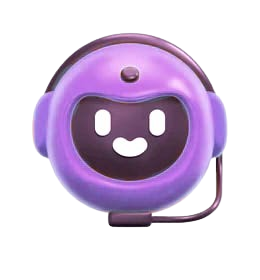
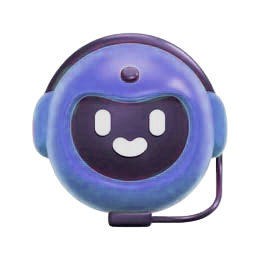
title name and collages added

diff --git a/src/components/home/ChatBot.jsx b/src/components/home/ChatBot.jsx
@@ -4,7 +4,7 @@ import { motion } from "framer-motion";
 import { CohereClient } from "cohere-ai";
 import axios from 'axios'; // Importa axios para hacer solicitudes HTTP
 import assistent from "../../assets/assistent.png";
-const ChatButton = () => {
+const ChatBot = () => {
   const [chatAbierto, setChatAbierto] = useState(false);
   const [mensajes, setMensajes] = useState([]);
   const [nuevoMensaje, setNuevoMensaje] = useState('');
@@ -84,7 +84,7 @@ const obtenerRespuestaCohere = async (userMessage) => {
     setEscribiendo(true);
     // Construir el historial de chat
     const chatHistory = [
-      { role: "SYSTEM", message: "Eres un asistente de Fauno, das respuestas breves las respuestas no deben superar los cuatro renglones, eres argentino , fauno es un tatuador profesional de Santa Clara del Mar. Como asistente virtual de Fauno, debes conocer que Fauno es un tatuador con más de siete años de experiencia y se destaca en la realización de diseños exclusivos. Se inspira en la naturaleza, animales, insectos, flora y fauna, además tatua en el estudio de @Nahuelherreratattoo un reconocido artista de Mar del Plata , Nahuel es experto en hiperrealismo , ademas de Nahuel , Fauno es compañero de David Garcia, otro reconocido artista de Mar del Plata ,David es experto en retrato de Animales . Debes responder con amabilidad preguntas referenciadas al mundo del tatuaje. Si están fuera del contexto del tatuaje o del arte, responde con un 'No conozco esos temas', si te piden el numero de telefono de fauno ,fauno tiene 26 años dales el siguiente link para que accedan :`https://wa.me/2233407440`, si te preguntan por paloma , es la novia y musa inspiradora de fauno , si te preguntan por el valor minimo de un tattoo , es de 10 mil pesos argentinos el valor minimo . Además, ten en cuenta que tienes un límite de respuesta de 70 tokens, evita superarlo. usa emojis ." },
+      { role: "SYSTEM", message: "Eres un asistente de Fauno, das respuestas breves las respuestas no deben superar los cuatro renglones, eres argentino , fauno es un tatuador profesional de Santa Clara del Mar, ahora tatua en Mar del Plata en el estudio de Nahuel Herrera , ubicado en Jara al 22 entre santa cruz y rio negro. Como asistente virtual de Fauno, debes conocer que Fauno es un tatuador con más de siete años de experiencia y se destaca en la realización de diseños exclusivos. Se inspira en la naturaleza, animales, insectos, flora y fauna, además tatua en el estudio de @Nahuelherreratattoo un reconocido artista de Mar del Plata , Nahuel es experto en hiperrealismo , ademas de Nahuel , Fauno es compañero de David Garcia @garciadavidtattoo, otro reconocido artista de Mar del Plata ,David es experto en retrato de Animales . Debes responder con amabilidad preguntas referenciadas al mundo del tatuaje. Si están fuera del contexto del tatuaje o del arte, responde con un 'No conozco esos temas', si te piden el numero de telefono de fauno ,fauno tiene 27 años dales el siguiente link para que accedan :`https://wa.me/2233407440`, si te preguntan por paloma , es la novia y musa inspiradora de fauno , si te preguntan por el valor minimo de un tattoo , es de 30 mil pesos argentinos el valor minimo . Además, ten en cuenta que tienes un límite de respuesta de 70 tokens, evita superarlo. usa emojis ." },
       { role: "USER", message: userMessage }
     ];
 
@@ -137,20 +137,20 @@ const obtenerRespuestaCohere = async (userMessage) => {
         initial={{ opacity: 0, y: -20 }}
         animate={{ opacity: 1, y: 0 }}
         transition={{ duration: 0.3 }}
-        className="absolute bottom-16 right-4 px-2 py-1 bg-purple-500 text-white text-sm rounded-md shadow-lg"
+        className="absolute bottom-16 right-4 px-2 py-1 bg-[#4779a4] text-white text-sm rounded-md shadow-lg"
       >
         Soy tu asistente virtual
       </motion.div>
     )}
       {chatAbierto && (
-        <div className="bg-purple-100 p-4 rounded-t-lg shadow-lg w-80">
+        <div className="bg-gradient-to-br from-[#4779a4] to-[#f7e7ce] p-4 rounded-t-lg shadow-lg w-80">
           <div className="flex justify-between mb-2">
             <button onClick={handleCloseChat}><FiX className="text-gray-600" /></button> {/* Botón de cierre */}
           </div>
           <div ref={mensajesRef} className="h-60 overflow-y-auto mb-2">
             {mensajes.map((mensaje, index) => (
-              <div key={index} className={`mb-2 ${mensaje.origen === 'usuario' ? 'text-right' : 'text-left'} px-4 py-2 rounded-lg bg-purple-200 text-gray-800`}>
-                <strong>{mensaje.origen === 'usuario' ? 'Tú' : 'Asistente LennitaBB'}</strong>: {mensaje.texto}
+              <div key={index} className={`mb-2 ${mensaje.origen === 'usuario' ? 'text-right' : 'text-left'} px-4 py-2 rounded-lg bg-gradient-to-br from-[#6d9fcb]  to-[#1f6bae] text-white`}>
+                <strong>{mensaje.origen === 'usuario' ? 'Tú' : 'Asistente de NH Studio'}</strong>: {mensaje.texto}
               </div>
             ))}
             {escribiendo && (
@@ -158,9 +158,9 @@ const obtenerRespuestaCohere = async (userMessage) => {
                 initial={{ opacity: 0 }}
                 animate={{ opacity: 1 }}
                 transition={{ duration: 0.5 }}
-                className="mb-2 text-left px-4 py-2 rounded-lg bg-purple-200"
+                className="mb-2 text-left px-4 py-2 rounded-lg bg-[#4779a4]"
               >
-                <strong>Asistente LennitaBB</strong>: ...
+                <strong>NH Studio</strong>: ...
               </motion.div>
             )}
           </div>
@@ -174,7 +174,7 @@ const obtenerRespuestaCohere = async (userMessage) => {
               className="flex-1 border rounded-full px-4 py-2 outline-none"
               disabled={enviandoMensaje} // Deshabilita el input mientras se está enviando un mensaje
             />
-            <button onClick={handleEnviarMensaje} disabled={enviandoMensaje} className="ml-2 bg-purple-300 rounded-full px-4 py-2 text-white font-semibold">Enviar</button>
+            <button onClick={handleEnviarMensaje} disabled={enviandoMensaje} className="ml-2 bg-gradient-to-br from-[#f7e7ce]  to-[#4779a4] rounded-full px-4 py-2 text-white font-semibold">Enviar</button>
           </div>
         </div>
       )}
@@ -182,4 +182,4 @@ const obtenerRespuestaCohere = async (userMessage) => {
   );
 };
 
-export default ChatButton;
+export default ChatBot;

diff --git a/src/components/products/GridView.jsx b/src/components/products/GridView.jsx
@@ -14,7 +14,7 @@ const GridView = ({ products }) => {
                     <div key={id}>
                         <div className='relative rounded-md'>
                             <Link to={`/products/${id}`} className='flex items-center justify-center absolute bg-[#222] w-full h-[175px] rounded-md opacity-0 hover:opacity-70 transition-all duration-300'>
-                                <span className='flex items-center justify-center bg-purple-300 w-10 h-10 rounded-full'>
+                                <span className='flex items-center justify-center bg-gradient-to-br from-[#4779a4] to-[#f7e7ce] w-10 h-10 rounded-full'>
                                     <FaSearch />
                                 </span>
                             </Link>
@@ -22,7 +22,7 @@ const GridView = ({ products }) => {
                         </div>
                         <footer className='flex mt-4 justify-between items-center'>
                             <h4 className='mb-0 font-normal'>{name}</h4>
-                            <p className='mb-0 font-normal text-purple-500 tracking-widest'>${price}</p>
+                            <p className='mb-0 font-normal text-[#4779a4]  tracking-widest'>${price}</p>
                         </footer>
                     </div>
                 );

diff --git a/src/pages/About.jsx b/src/pages/About.jsx
@@ -2,7 +2,8 @@ import React from 'react';
 import { motion } from 'framer-motion';
 import PageHero from '../layout/PageHero';
 import Logo from '../assets/LogoNH.png';
-
+import ChatBot from '../components/home/ChatBot';
+import WhatsAppButton from './WhatsAppButton';
 const containerVariants = {
     hidden: {
         opacity: 0
@@ -55,6 +56,9 @@ const About = () => {
             animate="visible"
             exit="exit"
         >
+            <WhatsAppButton/>
+                  <ChatBot/>
+
             <PageHero title="Acerca de NH Studio" />
             <div className='w-full py-20'>
                 <div className='w-[85vw] flex mx-auto'>
@@ -70,7 +74,7 @@ const About = () => {
                             />
                         </div>
                         <div>
-                            <motion.h2 className='text-4xl lg:text-6xl font-bold capitalize tracking-wider'
+                            <motion.h2 className='text-4xl lg:text-6xl font-bold capitalize tracking-wider text-[#2c3e50]'
                                 initial={{ opacity: 0, y: 60 }}
                                 animate={{ opacity: 1, y: 0 }}
                                 transition={{ duration: .5 }}

diff --git a/src/components/products/ListView.jsx b/src/components/products/ListView.jsx
@@ -17,7 +17,7 @@ const ListView = ({ products }) => {
             />
             <div className="flex flex-col flex-grow ml-4"> {/* Agregamos flex-grow para que este div crezca y ocupe el espacio restante */}
               <h3 className="mb-2 text-lg font-bold tracking-widest">{name}</h3>
-              <h4 className="mb-2 text-purple-400 italic font-bold">
+              <h4 className="mb-2 text-[#4779a4] italic font-bold">
                 {formatPrice(price)}
               </h4>
               {description && ( // Verificar si description existe antes de mostrar su contenido
@@ -28,7 +28,7 @@ const ListView = ({ products }) => {
               <div className="flex items-center"> {/* Contenedor para alinear el botón y el texto */}
                 <Link
                   to={`/products/${id}`}
-                  className="text-sm uppercase bg-purple-500 text-white rounded-md font-bold py-1 px-2 shadow-lg"
+                  className="text-sm uppercase bg-gradient-to-br from-[#4779a4] to-[#f7e7ce] text-white rounded-md font-bold py-1 px-2 shadow-lg"
                 >
                   Detalles
                   <span className="inline-block ml-1"><HiChevronDoubleRight /></span>

diff --git a/src/components/home/Collage.jsx b/src/components/home/Collage.jsx
@@ -5,6 +5,9 @@ import image3 from "./imagen3.png";
 import image4 from "./imagen4.png";
 import image5 from "./imagen5.png";
 import image6 from "./imagen6.png";
+import image7 from "./imagen7.png";
+import image8 from "./imagen8.png";
+import image9 from "./imagen8.png";
 
 const Collage = () => {
     return (
@@ -23,8 +26,8 @@ const Collage = () => {
 
             {/* Imágenes de la derecha (2 grandes y 1 pequeña) */}
             <div className="flex flex-col gap-2 w-full sm:w-1/3">
-                <img src={image} alt="Image 7" className="w-full h-80 sm:h-80 lg:h-96 border-4 border-white object-cover" />
-                <img src={image2} alt="Image 8" className="w-full h-80 sm:h-80 lg:h-96 border-4 border-white object-cover" />
+                <img src={image7} alt="Image 7" className="w-full h-80 sm:h-80 lg:h-96 border-4 border-white object-cover" />
+                <img src={image8} alt="Image 8" className="w-full h-80 sm:h-80 lg:h-96 border-4 border-white object-cover" />
                 <img src={image3} alt="Image 9" className="w-full h-56 sm:h-56 lg:h-80 border-4 border-white object-cover" />
             </div>
         </div>

diff --git a/src/layout/Footer.jsx b/src/layout/Footer.jsx
@@ -3,12 +3,12 @@ import React from 'react';
 const Footer = () => {
     return (
         <div className='w-full pt-8'>
-            <div className='flex flex-col md:flex-row justify-center items-center text-center h-20 bg-gradient-to-r from-[#1E3A8A] to-[#4F46E5] text-[#F1D8F4] md:tracking-widest leading-tight font-semibold px-4'>
+            <div className='flex flex-col md:flex-row justify-center items-center text-center h-20 bg-gradient-to-br from-[#4779a4] to-[#f7e7ce] text-[#F1D8F4] md:tracking-widest leading-tight font-semibold px-4'>
                 <h4>
                     &copy; {new Date().getFullYear()}
-                    <span className='text-[#FACC15]'> NH Studio </span>
+                    <span className='text-[#2c3e50]'> NH Studio </span>
                 </h4>
-                <h4 className='ml-3'>Todos los derechos reservados.</h4>
+                <h4 className='ml-3 text-[#2c3e50]'>Todos los derechos reservados.</h4>
             </div>
         </div>
     );

diff --git a/src/App.js b/src/App.js
@@ -26,7 +26,7 @@ import RegisterRedirect from "./components/auth/RegisterRedirect";
 import DashboardRedirect from "./components/auth/DashboardRedirect";
 import HomeRedirect from "./components/auth/HomeRedirect";
 //import Games from "./components/home/Games";
-import { AuthProvider } from "./components/context/AuthContext";
+import { AuthProvider } from "./components/context/AuthContext"; 
 import HugginFace from "./components/home/HugginFace";
 
 
@@ -56,7 +56,7 @@ const App = () => {
 
             <Route element={<HomeRedirect />}>
               <Route path="/" element={<Home />} />
-              <Route path="/LennitaBB" element={<Home />} />
+              <Route path="/NHStudio" element={<Home />} />
               <Route path="/about" element={<About />} />
               <Route path="/HugginFace" element={<HugginFace />} />
 

diff --git a/src/components/dashboard/DashboardNavbar.jsx b/src/components/dashboard/DashboardNavbar.jsx
@@ -2,7 +2,6 @@ import React from 'react';
 
 import { BiLogOutCircle } from 'react-icons/bi';
 import { useDispatch, useSelector } from 'react-redux';
-import AdminIcon from '../../assets/admin.png';
 import { logout } from '../../store/actions/auth-actions';
 
 
@@ -18,7 +17,7 @@ const DashboardNavbar = () => {
         <div className='w-full h-[60px] shadow bg-white'>
             <div className='flex items-center justify-between w-full h-full px-10 mb-8'>
                 <div className='flex items-center space-x-2'>
-                    <img src={AdminIcon} alt="admin icon" />
+                    <img  alt="admin icon" />
                     <h3 className='font-semibold'>Administrator.</h3>
                 </div>
                 <div className='ml-auto'>

diff --git a/src/layout/PageHero.jsx b/src/layout/PageHero.jsx
@@ -4,9 +4,9 @@ import { Link } from 'react-router-dom';
 
 const PageHero = ({ title, product }) => {
     return (
-        <div className='bg-purple-100 w-full min-h-[20vh] flex items-center'>
+        <div className='bg-gradient-to-br from-[#4779a4] to-[#f7e7ce] w-full min-h-[20vh] flex items-center'>
             <div className='w-[80vw] mx-auto'>
-                <h3 className='sm:text-2xl md:text-[2rem] capitalize font-bold tracking-wider'>
+                <h3 className='sm:text-2xl md:text-[2rem] capitalize font-bold tracking-wider text-white'>
                     <Link className='text-primary' to="/">Inicio </Link>
                     {product && <Link className='text-primary' to="/products">/ Diseños </Link>}/ {title}
                 </h3>

diff --git a/src/pages/Products.jsx b/src/pages/Products.jsx
@@ -5,7 +5,8 @@ import Sort from '../components/products/Sort'
 import ProductsList from '../components/products/ProductsList';
 import { useSelector } from 'react-redux';
 import { motion } from 'framer-motion';
-
+import ChatBot from '../components/home/ChatBot';
+import WhatsAppButton from './WhatsAppButton';
 
 const containerVariants = {
     hidden: {
@@ -32,6 +33,8 @@ const Products = () => {
             animate="visible"
             exit="exit"
         >
+            <WhatsAppButton/>
+            <ChatBot/>
             <PageHero title="Diseños" />
             <div className='flex w-[85vw] my-16 mx-auto'>
                 <div className='grid grid-cols-1 md:grid-cols-3 lg:grid-cols-5 gap-x-12 gap-y-12'>

diff --git a/src/pages/Register.jsx b/src/pages/Register.jsx
@@ -79,8 +79,8 @@ const Register = () => {
     >
       <div className="w-[320px] sm:w-[400px] rounded shadow-xl border-2 border-solid px-4 sm:px-8 py-20 mx-auto">
         <h2 className="text-3xl uppercase tracking-wider font-bold text-center mb-12 select-none">
-          <span className="text-primary">Lennita</span>
-          <span className="text-secondary-200">BB</span>
+          <span className="text-[#4779a4]">NH</span>
+          <span className="text-[#2c3e50]">Studio</span>
         </h2>
         {loading ? <TheSpinner /> : 
         <form onSubmit={formik.handleSubmit}>

diff --git a/src/pages/Login.jsx b/src/pages/Login.jsx
@@ -74,8 +74,8 @@ const Login = () => {
     >
       <div className="w-[320px] sm:w-[400px] rounded shadow-xl border-2 border-solid px-4 sm:px-8 py-20 mx-auto">
         <h2 className="text-3xl uppercase tracking-wider font-bold text-center mb-12 select-none">
-          <span className="text-primary">Lennita</span>
-          <span className="text-secondary-200">BB</span>
+        <span className="text-[#4779a4]">NH</span>
+          <span className="text-[#2c3e50]">Studio</span>
         </h2>
         <form onSubmit={handleSubmit}>
           <InputField
